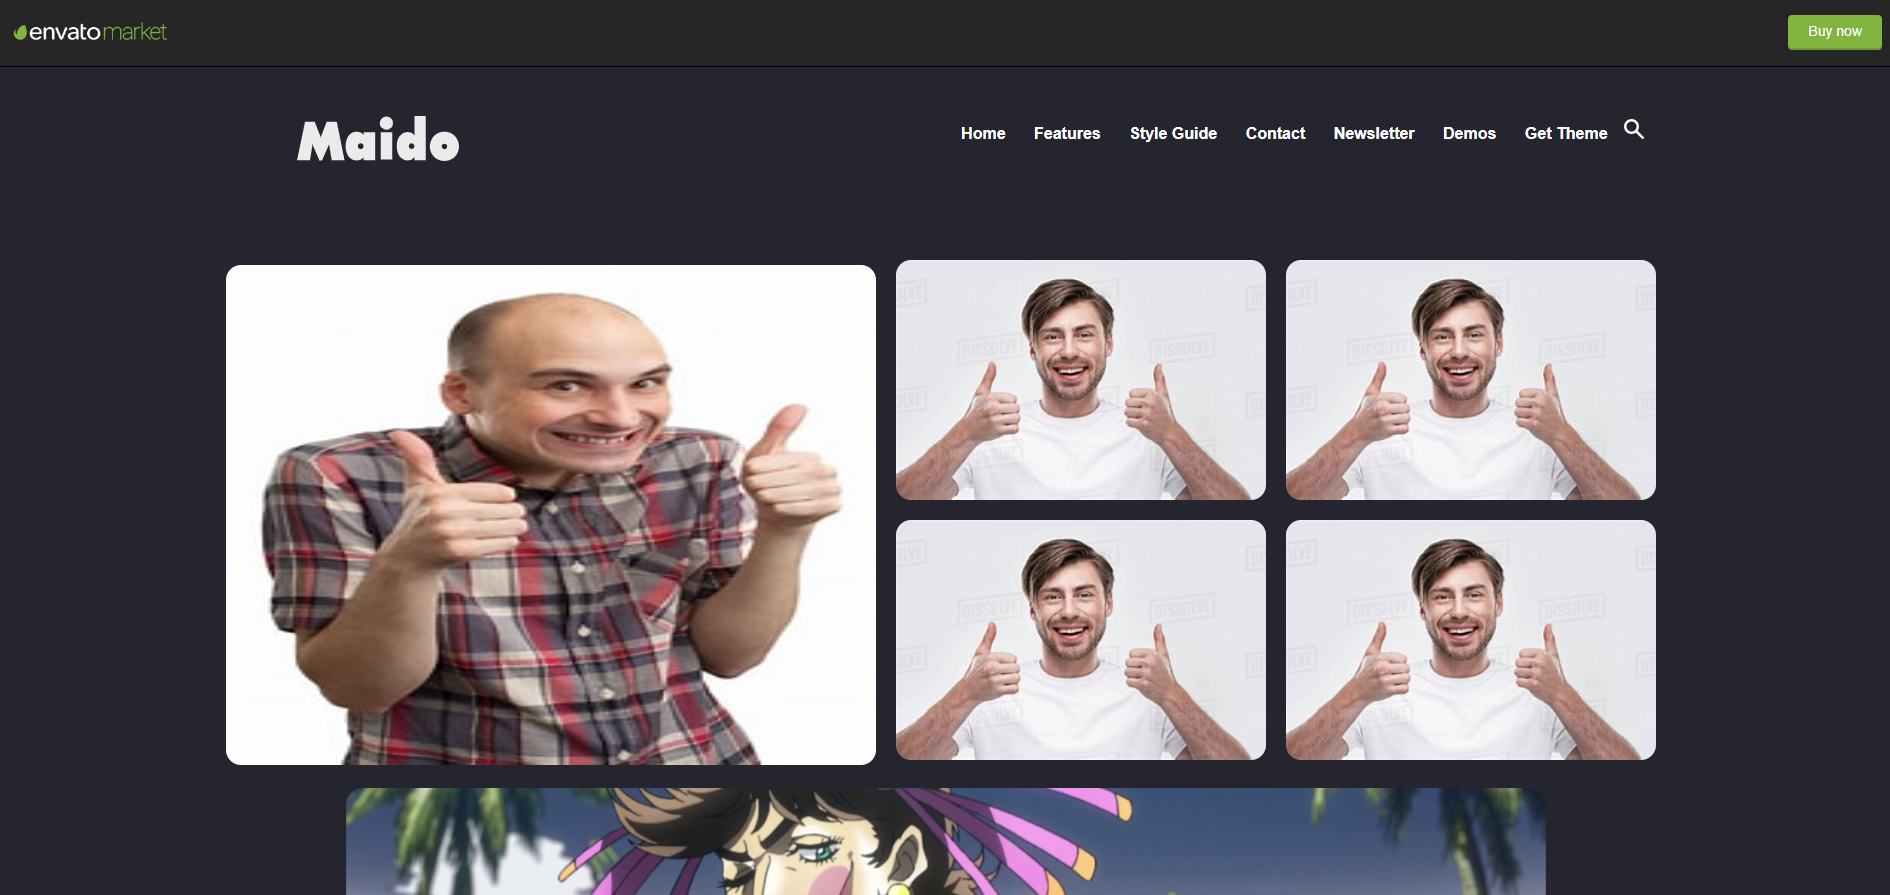
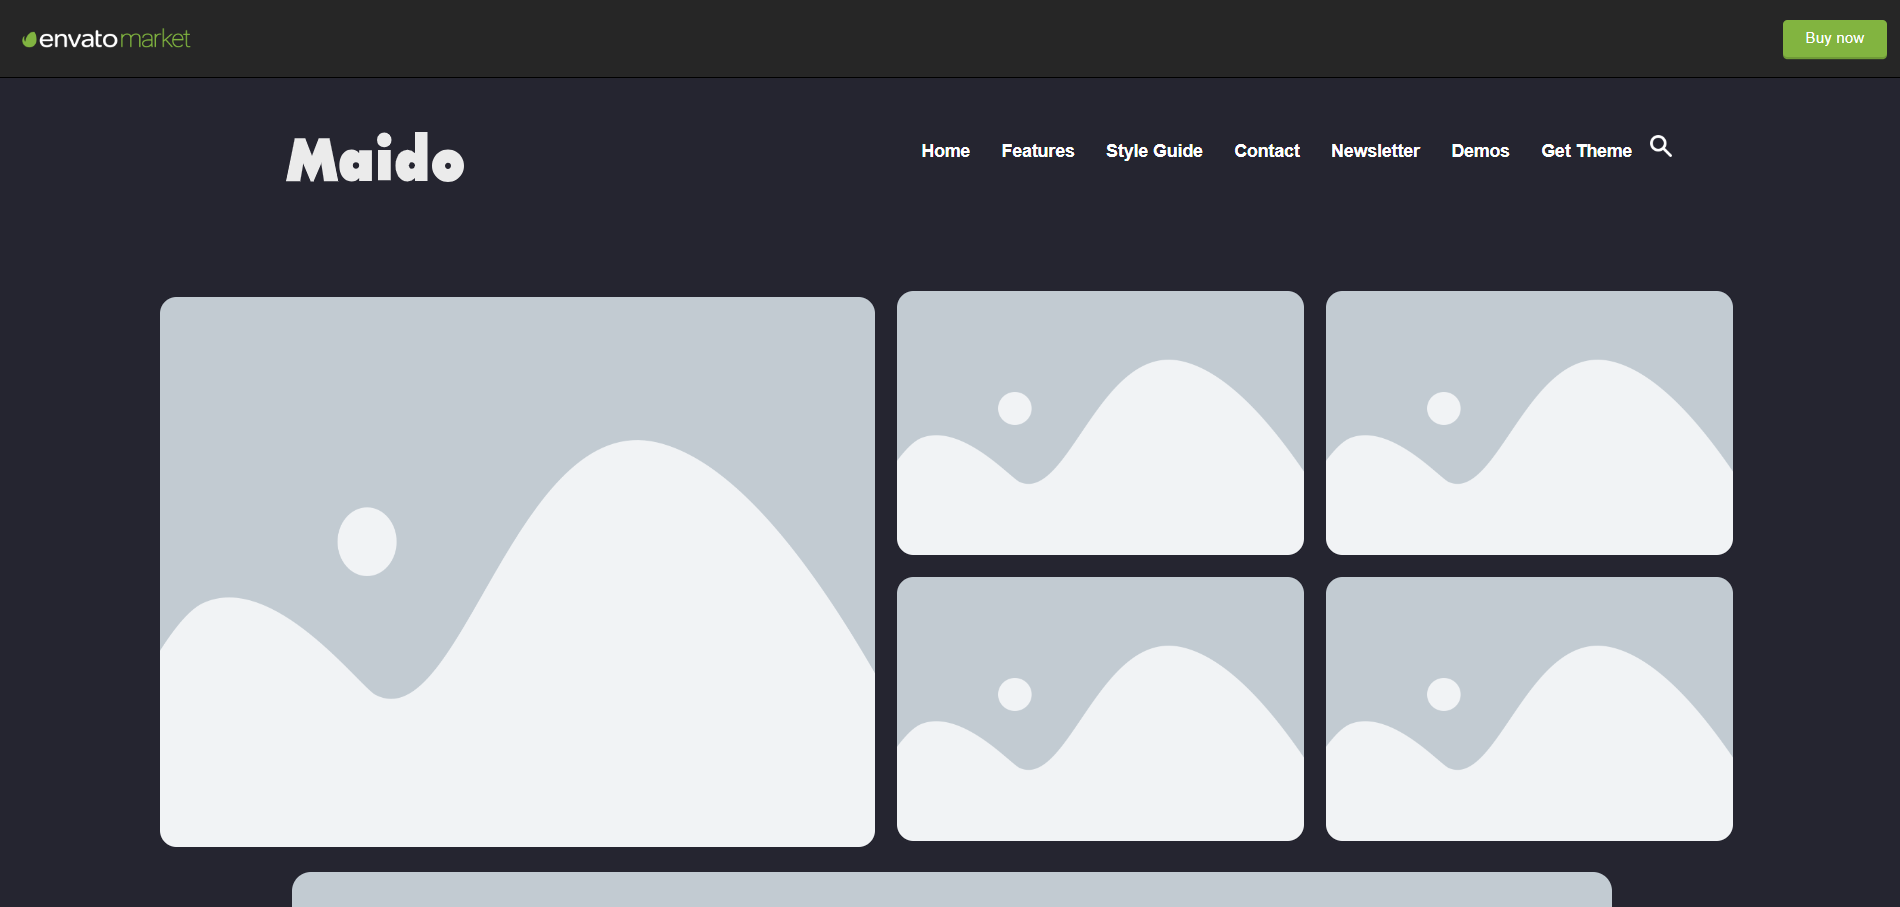
fixing

diff --git a/harjoitus5/harj5index.html b/harjoitus5/harj5index.html
@@ -27,16 +27,16 @@
     </nav>
     <div class="pictures">
         <div class="big-picture" onclick="location.href='';">
-            <img src="bigpicture.jpg" alt="">
+            <img src="huge_3.webp" alt="">
         </div>
         <div class="small-pictures">
             <div class="first-row">
-                <img onclick="location.href='';" class="first-row-image" src="smallpicture.jpg" alt="">
-                <img onclick="location.href='';" class="first-row-image" src="smallpicture.jpg" alt="">
+                <img onclick="location.href='';" class="first-row-image" src="huge_3.webp" alt="">
+                <img onclick="location.href='';" class="first-row-image" src="huge_3.webp" alt="">
             </div>
             <div class="second-row">
-                <img onclick="location.href='';" class="second-row-image" src="smallpicture.jpg" alt="">
-                <img onclick="location.href='';" class="second-row-image" src="smallpicture.jpg" alt="">
+                <img onclick="location.href='';" class="second-row-image" src="huge_3.webp" alt="">
+                <img onclick="location.href='';" class="second-row-image" src="huge_3.webp" alt="">
             </div>
         </div>
     </div>
@@ -138,7 +138,7 @@
         }
     </script>
         <div id="zombie2" class="better-button1">
-            <button id="load-button1" class="based-button1">Load More</button>
+            <button id="load-button1" class="based-button1">Subscribe!</button>
         </div>
 
         <footer>

diff --git a/harjoitus5/style.css b/harjoitus5/style.css
@@ -165,7 +165,8 @@ nav{
     height: 500px;
 }
 .medium-picture{
-    background:linear-gradient(to top, #3204fdba, #9907facc), url(medium.webp);
+    background:linear-gradient(to top, #3204fdba, #9907facc), url(placeholder2.png);
+    background-position:center ;
     height: 500px;
     width: 580px;
     background-repeat: no-repeat;
@@ -219,7 +220,8 @@ nav{
 
 }
 .semi{
-    background-image: url(semi-small.jpeg);
+    background-image: url(placeholder2.png);
+    background-position:center ;
     background-size: 100%;
     height: 500px;
     width: 360px;
@@ -289,7 +291,7 @@ nav{
 .hidden-boxes{
     height: 600px;
     width: 895px;
-    background-image: url(hidden-image.jpg);
+    background-image: url(huge_3.webp);
     display: none;
 }
 .central{
